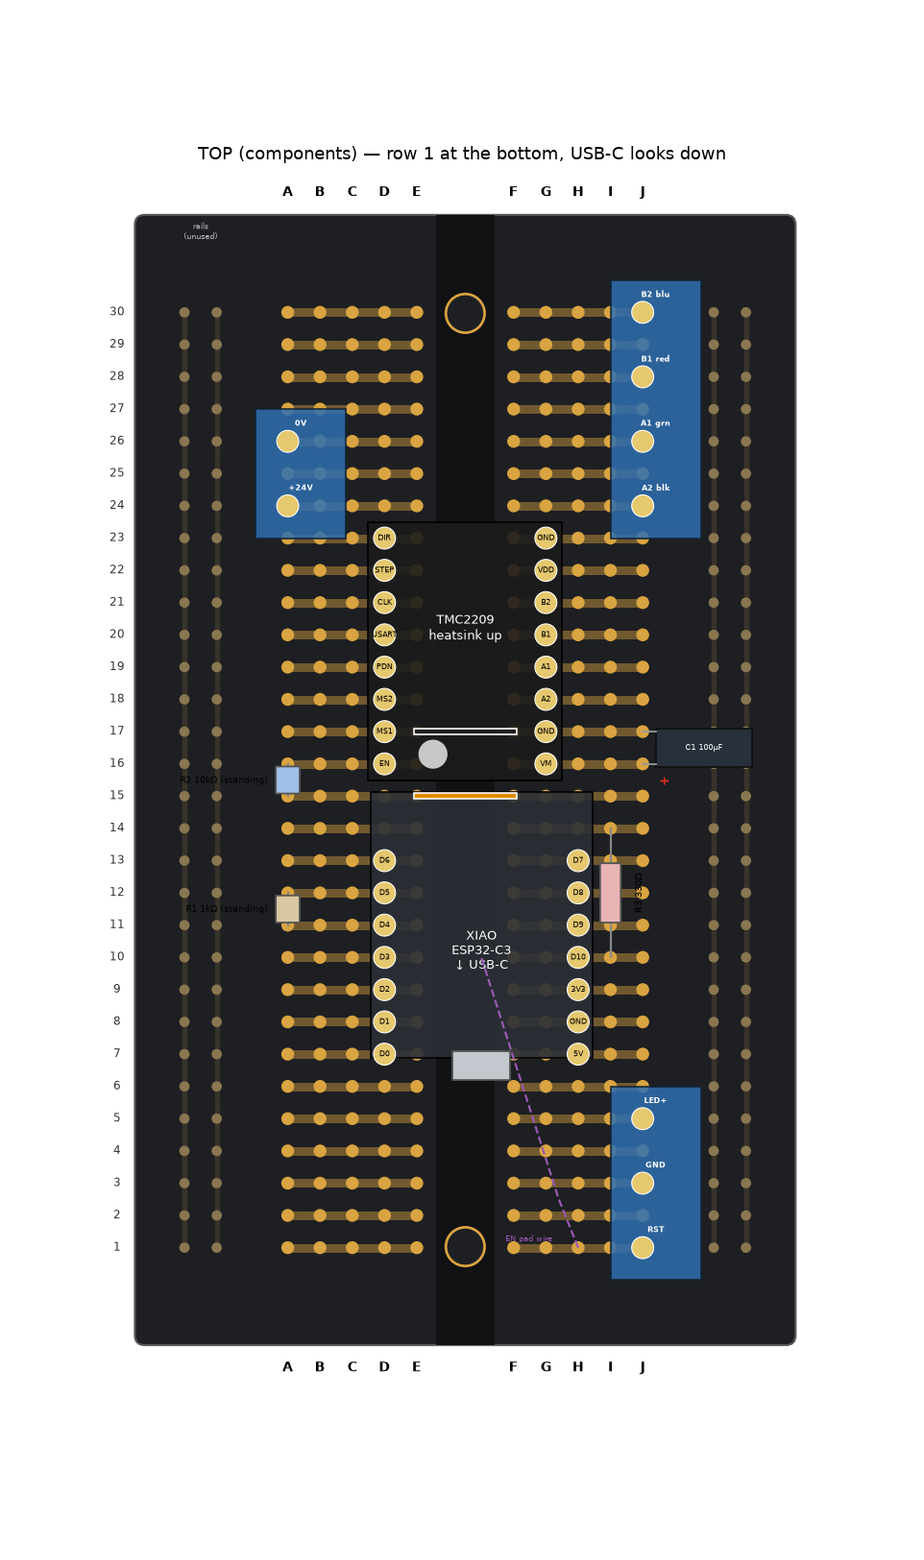
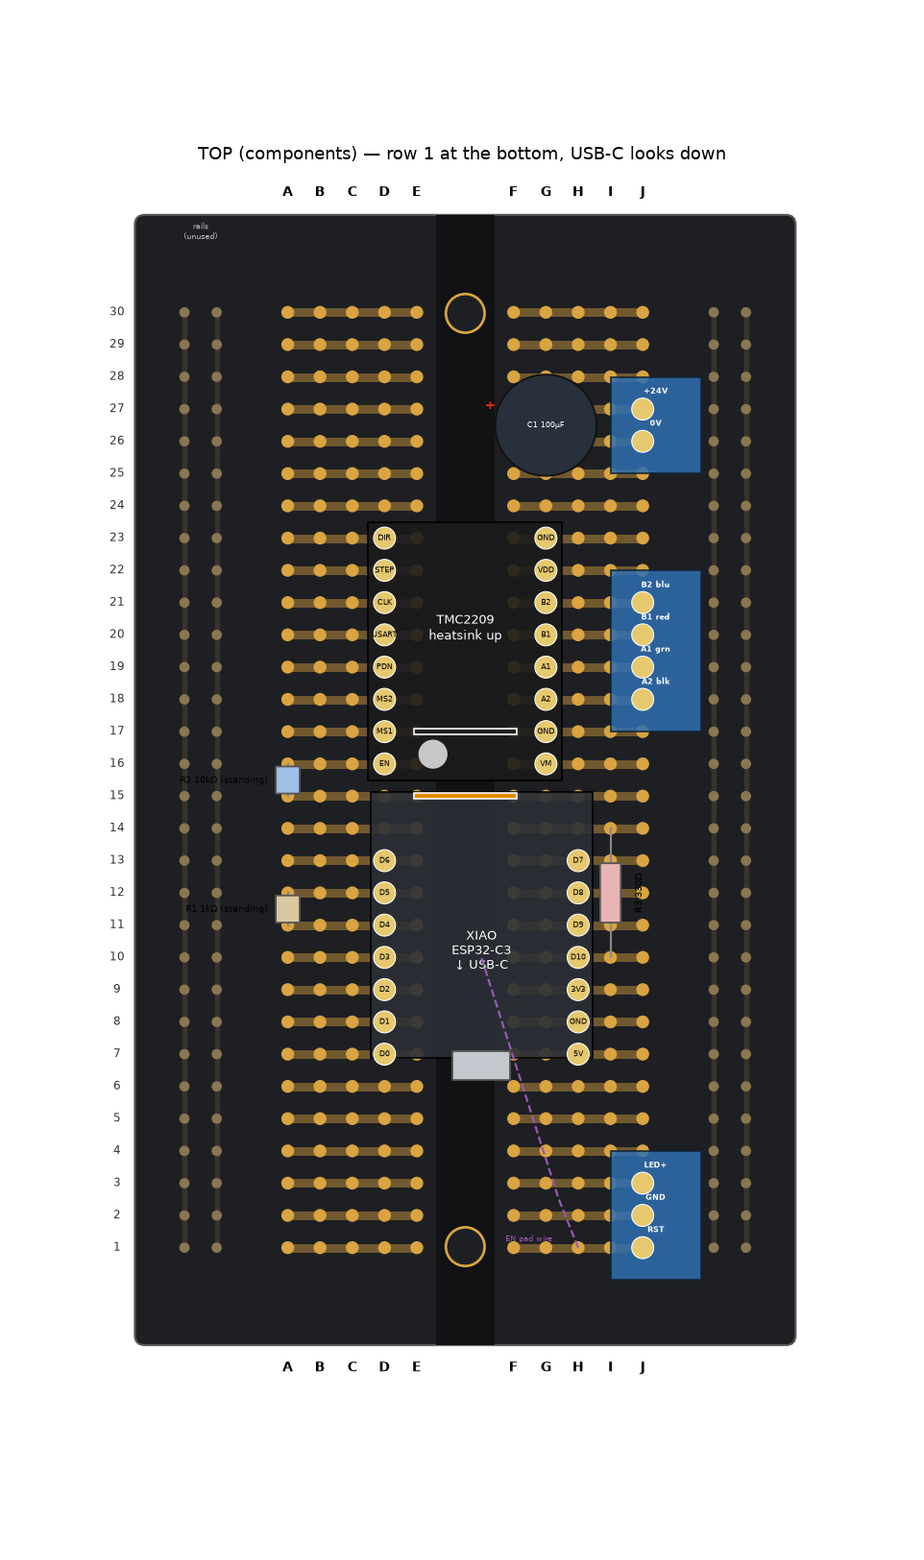
Perfboard: 2.5 mm screw terminals - motor terminal straight on the driver strips, power next to C1

Changed region(s): [[0.5301, 0.1538, 0.8108, 0.4923], [0.2495, 0.2462, 0.3742, 0.3692], [0.6549, 0.6769, 0.7796, 0.8]]

diff --git a/perfboard/layout.py b/perfboard/layout.py
@@ -55,12 +55,12 @@ TMC = {  # 2 x 8 female headers across the channel; potentiometer / EN end towar
 }
 R1 = {"1": "A11", "2": "A12"}        # 1k, standing: D4 strip -> D5 strip (D5 is wired to USART)
 R2 = {"1": "A15", "2": "A16"}        # 10k, standing: 3.3V bus -> EN
-C1 = {"+": "J16", "-": "J17"}       # 100uF / 35V, lying flat over the unused rails
+C1 = {"+": "G27", "-": "G26"}       # 100uF / 35V, standing, next to the power terminal
 R3 = {"1": "I10", "2": "I14"}         # 330R, lying along column I: D10 strip -> LED wire
-# Screw terminals, 5.08 mm pitch (a pin on every second row, so each pin has its own strip)
-MOTOR = {"1": "J24", "2": "J26", "3": "J28", "4": "J30"}   # 4 pins (2 + 2): black, green, red, blue
-PWR = {"+24V": "A24", "0V": "A26"}                         # 2 pins: from the panel DC jack
-PANEL = {"RST": "J1", "GND": "J3", "LED+": "J5"}           # 3 pins: panel RESET button and LED
+# Screw terminals, 2.5 mm pitch (one pin per row, each pin on its own strip)
+MOTOR = {"1": "J18", "2": "J19", "3": "J20", "4": "J21"}   # 4 pins, on the driver's A2..B2 strips
+PWR = {"+24V": "J27", "0V": "J26"}                         # 2 pins: from the panel DC jack
+PANEL = {"RST": "J1", "GND": "J2", "LED+": "J3"}           # 3 pins: panel RESET button and LED
 ENPAD = {"wire": "H1"}   # thin wire from the EN pad under the XIAO -> the RST terminal strip
 TERMINALS = [  # (holes, labels, wire openings face: +1 = out past column J, -1 = towards the middle)
     ([MOTOR["1"], MOTOR["2"], MOTOR["3"], MOTOR["4"]], ["A2 blk", "A1 grn", "B1 red", "B2 blu"], 1),
@@ -78,23 +78,19 @@ COMPONENTS = {"XIAO": XIAO, "TMC": TMC, "R1": R1, "R2": R2, "C1": C1, "MOTOR": M
 WIRES = [
     ("E15", "F15", "#e08a00", "3.3V bus: join both halves of row 15", "top", []),
     ("J9", "J15", "#e08a00", "XIAO 3V3 -> 3.3V bus", "bottom", [(11.5, 9.5), (11.5, 14.5)]),
-    ("H15", "H22", "#e08a00", "3.3V bus -> VDD", "bottom", [(8.5, 15.5), (8.5, 21.5)]),
+    ("H15", "I22", "#e08a00", "3.3V bus -> VDD", "bottom", [(9.5, 15.5), (9.5, 21.5)]),
     ("C8", "C16", "#7a7a7a", "D1 -> EN", "bottom", [(2.5, 8.5), (2.5, 15.5)]),
     ("B9", "B22", "#1f6fd1", "D2 -> STEP", "bottom", [(1.5, 9.5), (1.5, 21.5)]),
     ("C10", "C23", "#1f6fd1", "D3 -> DIR", "bottom", [(3.5, 10.5), (3.5, 22.5)]),
     ("E12", "E20", "#7b3fb8", "D5 -> USART", "bottom", [(4.5, 12.5), (4.5, 19.5)]),
     ("E17", "F17", "#222222", "MS1 -> GND (across the channel)", "top", []),
     ("B17", "B18", "#222222", "MS2 -> MS1 / GND", "bottom", []),
-    ("I17", "I23", "#222222", "power GND <-> logic GND", "bottom", [(9.5, 17.5), (9.5, 22.5)]),
-    ("I8", "H23", "#222222", "XIAO GND -> GND", "bottom", [(10.5, 8.5), (10.5, 23.5), (9.0, 23.5)]),
-    ("J18", "I24", "#2e7d32", "motor A2 -> terminal", "bottom", [(11.5, 18.5), (11.5, 23.5), (10.0, 23.5)]),
-    ("J19", "I26", "#2e7d32", "motor A1 -> terminal", "bottom", [(11.7, 19.5), (11.7, 25.5), (10.0, 25.5)]),
-    ("J20", "I28", "#2e7d32", "motor B1 -> terminal", "bottom", [(11.9, 20.5), (11.9, 27.5), (10.0, 27.5)]),
-    ("J21", "I30", "#2e7d32", "motor B2 -> terminal", "bottom", [(12.1, 21.5), (12.1, 29.5), (10.0, 29.5)]),
-    ("H16", "C24", "#d62d20", "+24V: terminal -> VM", "bottom", [(8.5, 16.5), (8.5, 23.2), (2.0, 23.2)]),
-    ("H17", "C26", "#222222", "0V: terminal -> GND", "bottom", [(9.0, 17.5), (9.0, 25.5), (2.0, 25.5)]),
-    ("G8", "G3", "#222222", "GND -> panel terminal", "bottom", [(7.5, 7.5), (7.5, 3.5)]),
-    ("J14", "H5", "#2a9d3a", "LED+ -> panel terminal", "bottom", [(11.5, 13.5), (11.5, 6.5), (9.0, 5.5)]),
+    ("I17", "I23", "#222222", "power GND <-> logic GND", "bottom", [(10.3, 17.5), (10.3, 22.5)]),
+    ("I8", "F23", "#222222", "XIAO GND -> GND", "bottom", [(10.7, 8.5), (10.7, 16.5), (7.5, 16.5), (7.5, 22.5)]),
+    ("H16", "H27", "#d62d20", "+24V: terminal -> VM", "bottom", [(8.7, 16.5), (8.7, 26.5)]),
+    ("J23", "I26", "#222222", "0V: terminal -> GND", "bottom", [(11.5, 23.5), (11.5, 25.5), (10.5, 25.5)]),
+    ("G8", "G2", "#222222", "GND -> panel terminal", "bottom", [(7.5, 7.5), (7.5, 2.5)]),
+    ("J14", "H3", "#2a9d3a", "LED+ -> panel terminal", "bottom", [(11.5, 13.5), (11.5, 4.5), (9.0, 3.5)]),
 ]
 
 # -----------------------------------------------------------------------------
@@ -253,16 +249,11 @@ def draw(mirror: bool, path: Path, title: str):
                                             fc=fc, ec="#555", zorder=7))
                 ax.text(x1 - 0.6, lo + 0.5, name + " (standing)", fontsize=4.8, ha="right",
                         va="center", zorder=7)
-        cxp, cyp = xy(C1["+"], False)
-        out = 1 if cxp > X_MAX / 2 else -1                     # lies outwards, over the rails
-        x0 = cxp + out * 0.4
-        ax.add_patch(Rectangle((min(x0, x0 + out * 3.0), cyp - 0.1), 3.0, 1.2, fc="#27303b",
-                               ec="#111", zorder=6))
-        for yy in (cyp, cyp + 1):
-            ax.plot([cxp, x0], [yy, yy], color="#999", lw=1, zorder=6)
-        ax.text(x0 + out * 1.5, cyp + 0.5, "C1 100µF", color="white", fontsize=4.6, ha="center",
+        (cxp, cyp), (cxm, cym) = xy(C1["+"], False), xy(C1["-"], False)
+        ax.add_patch(Circle((cxp, (cyp + cym) / 2), 1.57, fc="#27303b", ec="#111", zorder=6.8))
+        ax.text(cxp, (cyp + cym) / 2, "C1 100µF", color="white", fontsize=4.6, ha="center",
                 va="center", zorder=7)
-        ax.text(x0 + out * 0.1, cyp - 0.65, "+", color="#d62d20", fontsize=8, fontweight="bold", zorder=7)
+        ax.text(cxp - 1.9, cyp, "+", color="#d62d20", fontsize=8, fontweight="bold", zorder=7)
         for holes, labels, face in TERMINALS:
             pts = [xy(h, False) for h in holes]
             x = pts[0][0]

diff --git a/perfboard/make_readme.py b/perfboard/make_readme.py
@@ -85,8 +85,6 @@ WIRE_HE = {
     "D5 -> USART": "D5 ← USART", "MS1 -> GND (across the channel)": "MS1 ← GND (מעל התעלה)",
     "MS2 -> MS1 / GND": "MS2 ← MS1 / GND", "power GND <-> logic GND": "GND ↔ GND של הדרייבר",
     "XIAO GND -> GND": "GND של ה-XIAO ← GND",
-    "motor A2 -> terminal": "A2 ← מהדק מנוע 1", "motor A1 -> terminal": "A1 ← מהדק מנוע 2",
-    "motor B1 -> terminal": "B1 ← מהדק מנוע 3", "motor B2 -> terminal": "B2 ← מהדק מנוע 4",
     "+24V: terminal -> VM": "+24V: מהדק מתח ← VM", "0V: terminal -> GND": "0V: מהדק מתח ← GND",
     "GND -> panel terminal": "GND ← מהדק פאנל", "LED+ -> panel terminal": "לד + ← מהדק פאנל",
 }
@@ -146,8 +144,6 @@ checks = [  # (a, b, expected, what)
     (X["D5"], T["USART"], "0", "D5 → USART"),
     (X["D4"], T["USART"], "1k", "D4 → R1 → USART"),
     (X["D10"], PN["LED+"], "330", "D10 → R3 → מהדק הלד"),
-    (T["A2"], M["1"], "0", "A2 → מהדק מנוע 1"), (T["A1"], M["2"], "0", "A1 → מהדק מנוע 2"),
-    (T["B1"], M["3"], "0", "B1 → מהדק מנוע 3"), (T["B2"], M["4"], "0", "B2 → מהדק מנוע 4"),
     (M["1"], M["2"], "open", "אין קצר בין חוטי המנוע"),
     (M["2"], M["3"], "open", ""), (M["3"], M["4"], "open", ""),
     (PN["RST"], PN["GND"], "open", "RESET לא מקוצר ל-GND"),
@@ -190,14 +186,13 @@ text = f"""# לוח ההלחמה — PetriTurn
 | **R1** 1kΩ | `{L.R1['1']}` – `{L.R1['2']}` | עומד |
 | **R2** 10kΩ | `{L.R2['1']}` – `{L.R2['2']}` | עומד |
 | **R3** 330Ω | `{L.R3['1']}` – `{L.R3['2']}` | שוכב לאורך עמודה I |
-| **C1** 100µF / 35V | **+** `{L.C1['+']}`, **−** `{L.C1['-']}` | שוכב החוצה מעל פסי המתח. **קוטביות!** |
-| **מהדק מנוע** — 4 ברגים (2 + 2) | `{M['1']}`, `{M['2']}`, `{M['3']}`, `{M['4']}` | שחור, ירוק, אדום, כחול. פתחי החוטים החוצה |
-| **מהדק מתח** — 2 ברגים | +24V `{PW['+24V']}`, 0V `{PW['0V']}` | פתחי החוטים למרכז הלוח |
+| **C1** 100µF / 35V | **+** `{L.C1['+']}`, **−** `{L.C1['-']}` | **עומד**, ליד מהדק המתח. **קוטביות!** |
+| **מהדק מנוע** — 4 ברגים | `{M['1']}` A2, `{M['2']}` A1, `{M['3']}` B1, `{M['4']}` B2 | שחור, ירוק, אדום, כחול. יושב ישר על השורות של הדרייבר. פתחי החוטים החוצה |
+| **מהדק מתח** — 2 ברגים | 0V `{PW['0V']}`, +24V `{PW['+24V']}` | פתחי החוטים החוצה |
 | **מהדק פאנל** — 3 ברגים | RST `{PN['RST']}`, GND `{PN['GND']}`, LED+ `{PN['LED+']}` | פתחי החוטים החוצה |
 | **חוט מ-EN** | משטח `EN` בגב ה-XIAO ← `{L.ENPAD['wire']}` | חוט דק, ראו סעיף 4 |
 
-**המהדקים הם בפסיעה 5.08 מ"מ** (הנפוצים, כחולים/ירוקים): כל רגל יושבת בשורה שנייה, כך שלכל רגל פס משלה.
-מהדק 4 = שני מהדקי 2 צמודים. **לבדוק:** הרגליים של המהדק נכנסות בדיוק לחורים בשורות האלה.
+**המהדקים בפסיעה 2.5 מ"מ:** כל רגל בשורה משלה, בשורות צמודות. כל המהדקים בעמודה J, פתחי החוטים החוצה מהלוח.
 
 **בפאנל:**
 - לד STATUS: רגל ארוכה (+) ← **LED+**, רגל קצרה (−) ← **GND**.
@@ -221,8 +216,8 @@ text = f"""# לוח ההלחמה — PetriTurn
 
 - W1, W8 **מעל הלוח**, קצרים (לפני שמכניסים את הדרייבר). כל השאר **מתחת ללוח** — לפי `bottom.png` (הפוך כמו מראה).
 - חוטים מבודדים בלבד. כל קצה מולחם רק לחור שלו.
-- **חוטי המנוע והמתח** (W12–W17): חוט עבה יותר, 0.35–0.5 מ"מ².
-- הקצוות שמתחת למהדקים (`I24`, `I26`, `I28`, `I30`) — מלחימים **מלמטה בלבד**, כי המהדק יושב מעליהם.
+- **חוטי המתח** (W12, W13): חוט עבה יותר, 0.35–0.5 מ"מ².
+- הקצה `I26` (W13) נמצא ליד מהדק המתח — מלחימים אותו **מלמטה**.
 
 ---
 

diff --git a/perfboard/README.md b/perfboard/README.md
@@ -24,14 +24,13 @@
 | **R1** 1kΩ | `A11` – `A12` | עומד |
 | **R2** 10kΩ | `A15` – `A16` | עומד |
 | **R3** 330Ω | `I10` – `I14` | שוכב לאורך עמודה I |
-| **C1** 100µF / 35V | **+** `J16`, **−** `J17` | שוכב החוצה מעל פסי המתח. **קוטביות!** |
-| **מהדק מנוע** — 4 ברגים (2 + 2) | `J24`, `J26`, `J28`, `J30` | שחור, ירוק, אדום, כחול. פתחי החוטים החוצה |
-| **מהדק מתח** — 2 ברגים | +24V `A24`, 0V `A26` | פתחי החוטים למרכז הלוח |
-| **מהדק פאנל** — 3 ברגים | RST `J1`, GND `J3`, LED+ `J5` | פתחי החוטים החוצה |
+| **C1** 100µF / 35V | **+** `G27`, **−** `G26` | **עומד**, ליד מהדק המתח. **קוטביות!** |
+| **מהדק מנוע** — 4 ברגים | `J18` A2, `J19` A1, `J20` B1, `J21` B2 | שחור, ירוק, אדום, כחול. יושב ישר על השורות של הדרייבר. פתחי החוטים החוצה |
+| **מהדק מתח** — 2 ברגים | 0V `J26`, +24V `J27` | פתחי החוטים החוצה |
+| **מהדק פאנל** — 3 ברגים | RST `J1`, GND `J2`, LED+ `J3` | פתחי החוטים החוצה |
 | **חוט מ-EN** | משטח `EN` בגב ה-XIAO ← `H1` | חוט דק, ראו סעיף 4 |
 
-**המהדקים הם בפסיעה 5.08 מ"מ** (הנפוצים, כחולים/ירוקים): כל רגל יושבת בשורה שנייה, כך שלכל רגל פס משלה.
-מהדק 4 = שני מהדקי 2 צמודים. **לבדוק:** הרגליים של המהדק נכנסות בדיוק לחורים בשורות האלה.
+**המהדקים בפסיעה 2.5 מ"מ:** כל רגל בשורה משלה, בשורות צמודות. כל המהדקים בעמודה J, פתחי החוטים החוצה מהלוח.
 
 **בפאנל:**
 - לד STATUS: רגל ארוכה (+) ← **LED+**, רגל קצרה (−) ← **GND**.
@@ -50,18 +49,18 @@
 | חור | מה מחובר |
 |---|---|
 | `G16` | דרייבר · VM |
-| `H16` | קצה של חוט W16 |
-| `J16` | C1 100µF · + (רגל ארוכה) |
-| `A24` | מהדק מתח · +24V |
-| `C24` | קצה של חוט W16 |
+| `H16` | קצה של חוט W12 |
+| `G27` | C1 100µF · + (רגל ארוכה) |
+| `H27` | קצה של חוט W12 |
+| `J27` | מהדק מתח · +24V |
 
 #### GND (אדמה)
 
 | חור | מה מחובר |
 |---|---|
-| `G3` | קצה של חוט W18 |
-| `J3` | מהדק פאנל · GND |
-| `G8` | קצה של חוט W18 |
+| `G2` | קצה של חוט W14 |
+| `J2` | מהדק פאנל · GND |
+| `G8` | קצה של חוט W14 |
 | `H8` | XIAO · GND |
 | `I8` | קצה של חוט W11 |
 | `B17` | קצה של חוט W9 |
@@ -69,16 +68,16 @@
 | `E17` | קצה של חוט W8 |
 | `F17` | קצה של חוט W8 |
 | `G17` | דרייבר · GND (ליד VM) |
-| `H17` | קצה של חוט W17 |
 | `I17` | קצה של חוט W10 |
-| `J17` | C1 100µF · − (פס לבן) |
 | `B18` | קצה של חוט W9 |
 | `D18` | דרייבר · MS2 |
+| `F23` | קצה של חוט W11 |
 | `G23` | דרייבר · GND (האחרון) |
-| `H23` | קצה של חוט W11 |
 | `I23` | קצה של חוט W10 |
-| `A26` | מהדק מתח · 0V |
-| `C26` | קצה של חוט W17 |
+| `J23` | קצה של חוט W13 |
+| `G26` | C1 100µF · − (פס לבן) |
+| `I26` | קצה של חוט W13 |
+| `J26` | מהדק מתח · 0V |
 
 #### 3.3V
 
@@ -92,7 +91,7 @@
 | `H15` | קצה של חוט W3 |
 | `J15` | קצה של חוט W2 |
 | `G22` | דרייבר · VDD |
-| `H22` | קצה של חוט W3 |
+| `I22` | קצה של חוט W3 |
 
 #### EN — הפעלת המנוע
 
@@ -144,36 +143,28 @@
 | חור | מה מחובר |
 |---|---|
 | `G18` | דרייבר · A2 |
-| `J18` | קצה של חוט W12 |
-| `I24` | קצה של חוט W12 |
-| `J24` | מהדק מנוע · 1 · A2 · חוט שחור |
+| `J18` | מהדק מנוע · 1 · A2 · חוט שחור |
 
 #### מנוע A1
 
 | חור | מה מחובר |
 |---|---|
 | `G19` | דרייבר · A1 |
-| `J19` | קצה של חוט W13 |
-| `I26` | קצה של חוט W13 |
-| `J26` | מהדק מנוע · 2 · A1 · חוט ירוק |
+| `J19` | מהדק מנוע · 2 · A1 · חוט ירוק |
 
 #### מנוע B1
 
 | חור | מה מחובר |
 |---|---|
 | `G20` | דרייבר · B1 |
-| `J20` | קצה של חוט W14 |
-| `I28` | קצה של חוט W14 |
-| `J28` | מהדק מנוע · 3 · B1 · חוט אדום |
+| `J20` | מהדק מנוע · 3 · B1 · חוט אדום |
 
 #### מנוע B2
 
 | חור | מה מחובר |
 |---|---|
 | `G21` | דרייבר · B2 |
-| `J21` | קצה של חוט W15 |
-| `I30` | קצה של חוט W15 |
-| `J30` | מהדק מנוע · 4 · B2 · חוט כחול |
+| `J21` | מהדק מנוע · 4 · B2 · חוט כחול |
 
 #### לד (D10, לפני R3)
 
@@ -186,10 +177,10 @@
 
 | חור | מה מחובר |
 |---|---|
-| `H5` | קצה של חוט W19 |
-| `J5` | מהדק פאנל · LED+ |
+| `H3` | קצה של חוט W15 |
+| `J3` | מהדק פאנל · LED+ |
 | `I14` | R3 330Ω · רגל 2 |
-| `J14` | קצה של חוט W19 |
+| `J14` | קצה של חוט W15 |
 
 #### RESET
 
@@ -208,7 +199,7 @@
 |---|---|---|---|---|---|
 | W1 | פס 3.3V — מחבר את שני חצאי שורה 15 | `E15` | `F15` | למעלה (קצר) | כתום |
 | W2 | 3V3 של ה-XIAO ← פס 3.3V | `J9` | `J15` | למטה | כתום |
-| W3 | פס 3.3V ← VDD של הדרייבר | `H15` | `H22` | למטה | כתום |
+| W3 | פס 3.3V ← VDD של הדרייבר | `H15` | `I22` | למטה | כתום |
 | W4 | D1 ← EN | `C8` | `C16` | למטה | אפור |
 | W5 | D2 ← STEP | `B9` | `B22` | למטה | כחול |
 | W6 | D3 ← DIR | `C10` | `C23` | למטה | כחול |
@@ -216,20 +207,16 @@
 | W8 | MS1 ← GND (מעל התעלה) | `E17` | `F17` | למעלה (קצר) | שחור |
 | W9 | MS2 ← MS1 / GND | `B17` | `B18` | למטה | שחור |
 | W10 | GND ↔ GND של הדרייבר | `I17` | `I23` | למטה | שחור |
-| W11 | GND של ה-XIAO ← GND | `I8` | `H23` | למטה | שחור |
-| W12 | A2 ← מהדק מנוע 1 | `J18` | `I24` | למטה | ירוק |
-| W13 | A1 ← מהדק מנוע 2 | `J19` | `I26` | למטה | ירוק |
-| W14 | B1 ← מהדק מנוע 3 | `J20` | `I28` | למטה | ירוק |
-| W15 | B2 ← מהדק מנוע 4 | `J21` | `I30` | למטה | ירוק |
-| W16 | +24V: מהדק מתח ← VM | `H16` | `C24` | למטה | אדום |
-| W17 | 0V: מהדק מתח ← GND | `H17` | `C26` | למטה | שחור |
-| W18 | GND ← מהדק פאנל | `G8` | `G3` | למטה | שחור |
-| W19 | לד + ← מהדק פאנל | `J14` | `H5` | למטה | ירוק |
+| W11 | GND של ה-XIAO ← GND | `I8` | `F23` | למטה | שחור |
+| W12 | +24V: מהדק מתח ← VM | `H16` | `H27` | למטה | אדום |
+| W13 | 0V: מהדק מתח ← GND | `J23` | `I26` | למטה | שחור |
+| W14 | GND ← מהדק פאנל | `G8` | `G2` | למטה | שחור |
+| W15 | לד + ← מהדק פאנל | `J14` | `H3` | למטה | ירוק |
 
 - W1, W8 **מעל הלוח**, קצרים (לפני שמכניסים את הדרייבר). כל השאר **מתחת ללוח** — לפי `bottom.png` (הפוך כמו מראה).
 - חוטים מבודדים בלבד. כל קצה מולחם רק לחור שלו.
-- **חוטי המנוע והמתח** (W12–W17): חוט עבה יותר, 0.35–0.5 מ"מ².
-- הקצוות שמתחת למהדקים (`I24`, `I26`, `I28`, `I30`) — מלחימים **מלמטה בלבד**, כי המהדק יושב מעליהם.
+- **חוטי המתח** (W12, W13): חוט עבה יותר, 0.35–0.5 מ"מ².
+- הקצה `I26` (W13) נמצא ליד מהדק המתח — מלחימים אותו **מלמטה**.
 
 ---
 
@@ -251,14 +238,14 @@ EN הוא **משטח קטן בגב ה-XIAO** (מסומן `EN`), לא רגל.
 
 | בין | צריך | מה זה בודק |
 |---|---|---|
-| `E24` ↔ `E26` | **אין צפצוף** | **אין קצר בין 24V ל-GND** |
-| `E24` ↔ `F9` | **אין צפצוף** | **24V לא מגיע ל-3.3V** |
-| `E24` ↔ `F16` | צפצוף | מהדק המתח מגיע ל-VM |
-| `E26` ↔ `F8` | צפצוף | GND של הספק = GND של הבקר |
-| `E26` ↔ `F23` | צפצוף | GND של הלוגיקה בדרייבר |
-| `E26` ↔ `C17` | צפצוף | MS1 ל-GND |
-| `E26` ↔ `E18` | צפצוף | MS2 ל-GND |
-| `E26` ↔ `F3` | צפצוף | GND במהדק הפאנל |
+| `F27` ↔ `F26` | **אין צפצוף** | **אין קצר בין 24V ל-GND** |
+| `F27` ↔ `F9` | **אין צפצוף** | **24V לא מגיע ל-3.3V** |
+| `F27` ↔ `F16` | צפצוף | מהדק המתח מגיע ל-VM |
+| `F26` ↔ `F8` | צפצוף | GND של הספק = GND של הבקר |
+| `F26` ↔ `H23` | צפצוף | GND של הלוגיקה בדרייבר |
+| `F26` ↔ `C17` | צפצוף | MS1 ל-GND |
+| `F26` ↔ `E18` | צפצוף | MS2 ל-GND |
+| `F26` ↔ `F2` | צפצוף | GND במהדק הפאנל |
 | `F9` ↔ `F22` | צפצוף | 3.3V מגיע ל-VDD |
 | `F9` ↔ `E16` | ≈10kΩ | R2: EN ← 3.3V |
 | `E8` ↔ `E16` | צפצוף | D1 → EN |
@@ -266,18 +253,14 @@ EN הוא **משטח קטן בגב ה-XIAO** (מסומן `EN`), לא רגל.
 | `E10` ↔ `E23` | צפצוף | D3 → DIR |
 | `C12` ↔ `C20` | צפצוף | D5 → USART |
 | `E11` ↔ `C20` | ≈1kΩ | D4 → R1 → USART |
-| `F10` ↔ `F5` | ≈330Ω | D10 → R3 → מהדק הלד |
-| `F18` ↔ `F24` | צפצוף | A2 → מהדק מנוע 1 |
-| `F19` ↔ `F26` | צפצוף | A1 → מהדק מנוע 2 |
-| `F20` ↔ `F28` | צפצוף | B1 → מהדק מנוע 3 |
-| `F21` ↔ `F30` | צפצוף | B2 → מהדק מנוע 4 |
-| `F24` ↔ `F26` | **אין צפצוף** | אין קצר בין חוטי המנוע |
-| `F26` ↔ `F28` | **אין צפצוף** |  |
-| `F28` ↔ `F30` | **אין צפצוף** |  |
-| `F1` ↔ `F3` | **אין צפצוף** | RESET לא מקוצר ל-GND |
+| `F10` ↔ `F3` | ≈330Ω | D10 → R3 → מהדק הלד |
+| `F18` ↔ `F19` | **אין צפצוף** | אין קצר בין חוטי המנוע |
+| `F19` ↔ `F20` | **אין צפצוף** |  |
+| `F20` ↔ `F21` | **אין צפצוף** |  |
+| `F1` ↔ `F2` | **אין צפצוף** | RESET לא מקוצר ל-GND |
 | `E19` ↔ `C20` | **אין צפצוף** | PDN לבד |
 | `E21` ↔ `E22` | **אין צפצוף** | CLK לבד |
 
 **אחרי שה-XIAO והדרייבר בשקעים** (עדיין בלי מתח):
 - המתכת של שקע ה-USB-C ↔ `F8` — **צפצוף**.
-- `F23` ↔ `E26` — **צפצוף**.
+- `H23` ↔ `F26` — **צפצוף**.
